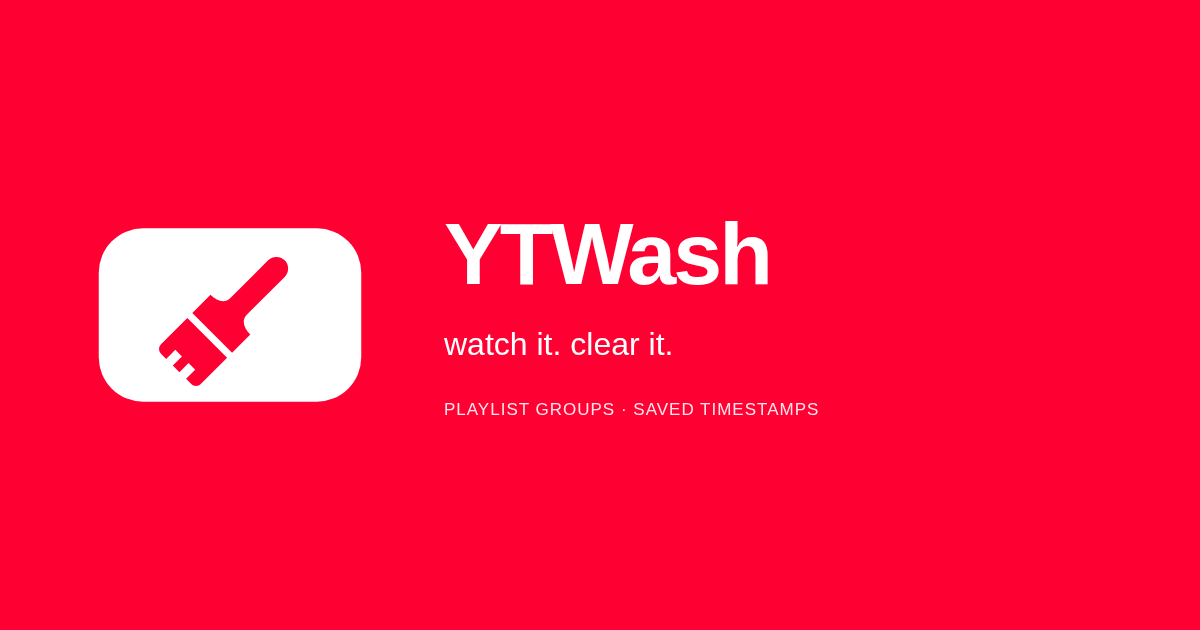
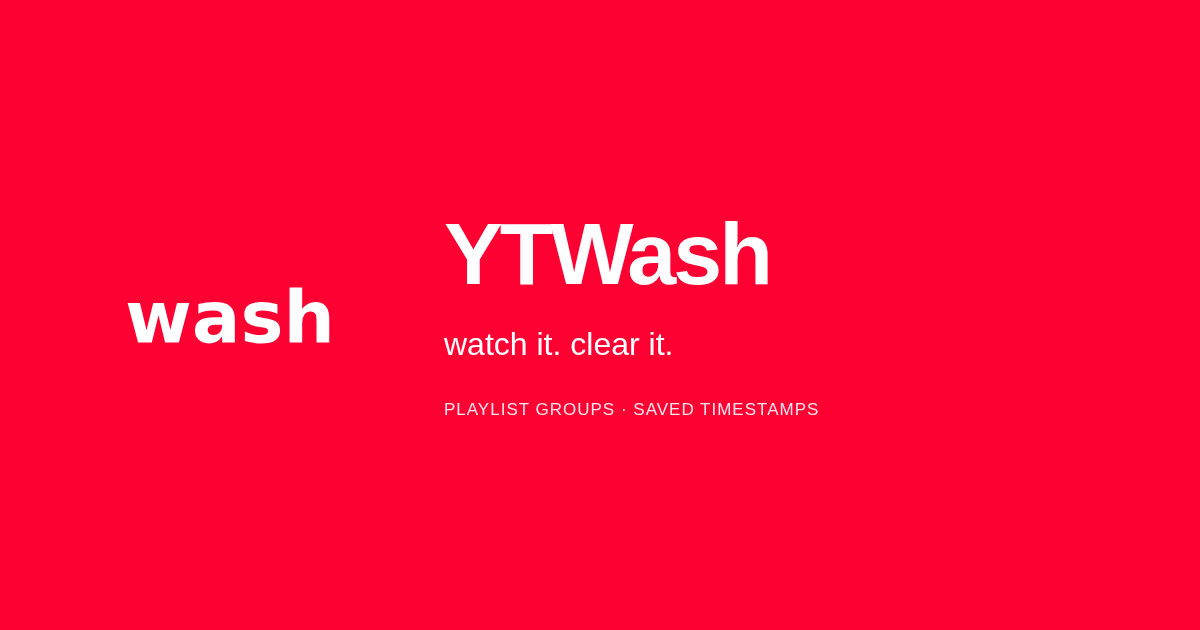
Use white wash lettering on a red video button for branding

Changed region(s): [[0.0617, 0.3619, 0.3083, 0.6635]]

diff --git a/assets/brand/social-preview.html b/assets/brand/social-preview.html
@@ -5,5 +5,5 @@
   .copy{flex:1}h1{font-size:88px;letter-spacing:-3px;margin:0 0 24px;line-height:1}
   p{font-size:32px;line-height:1.4;margin:0;max-width:720px;font-weight:500}
   .features{font-size:17px;letter-spacing:1px;margin-top:34px;color:#ffe4eb}
-  </style></head><body><div class="logo"><svg xmlns="http://www.w3.org/2000/svg" viewBox="0 0 512 512" role="img" aria-label="YTWash painter's brush"><rect x="32" y="108" width="448" height="296" rx="76" fill="#fff"/><g fill="#ff0033" transform="rotate(45 256 256)"><path d="M236 144a20 20 0 0 1 40 0v91c0 14 12 20 28 20v44h-96v-44c16 0 28-6 28-20z"/><path d="M208 311h96v63c0 7-5 12-12 12h-12v-22h-16v22h-16v-22h-16v22h-12c-7 0-12-5-12-12z"/></g></svg>
+  </style></head><body><div class="logo"><svg xmlns="http://www.w3.org/2000/svg" viewBox="0 0 512 512" role="img" aria-label="YTWash"><rect x="20" y="112" width="472" height="288" rx="72" fill="#ff0033"/><g fill="#fff" transform="translate(77 302.8028902705428) scale(0.06015795664594186 -0.06015795664594186)"><path transform="translate(0 0)" d="M72 1120H420L608 348L797 1120H1096L1284 356L1473 1120H1821L1526 0H1135L946 770L758 0H367Z"/><path transform="translate(1892 0)" d="M674 504Q562 504 505.5 466.0Q449 428 449 354Q449 286 494.5 247.5Q540 209 621 209Q722 209 791.0 281.5Q860 354 860 463V504ZM1221 639V0H860V166Q788 64 698.0 17.5Q608 -29 479 -29Q305 -29 196.5 72.5Q88 174 88 336Q88 533 223.5 625.0Q359 717 649 717H860V745Q860 830 793.0 869.5Q726 909 584 909Q469 909 370.0 886.0Q271 863 186 817V1090Q301 1118 417.0 1132.5Q533 1147 649 1147Q952 1147 1086.5 1027.5Q1221 908 1221 639Z"/><path transform="translate(3274 0)" d="M1047 1085V813Q932 861 825.0 885.0Q718 909 623 909Q521 909 471.5 883.5Q422 858 422 805Q422 762 459.5 739.0Q497 716 594 705L657 696Q932 661 1027.0 581.0Q1122 501 1122 330Q1122 151 990.0 61.0Q858 -29 596 -29Q485 -29 366.5 -11.5Q248 6 123 41V313Q230 261 342.5 235.0Q455 209 571 209Q676 209 729.0 238.0Q782 267 782 324Q782 372 745.5 395.5Q709 419 600 432L537 440Q298 470 202.0 551.0Q106 632 106 797Q106 975 228.0 1061.0Q350 1147 602 1147Q701 1147 810.0 1132.0Q919 1117 1047 1085Z"/><path transform="translate(4493 0)" d="M1298 682V0H938V111V520Q938 667 931.5 722.0Q925 777 909 803Q888 838 852.0 857.5Q816 877 770 877Q658 877 594.0 790.5Q530 704 530 551V0H172V1556H530V956Q611 1054 702.0 1100.5Q793 1147 903 1147Q1097 1147 1197.5 1028.0Q1298 909 1298 682Z"/></g></svg>
 </div><div class="copy"><h1>YTWash</h1><p>watch it. clear it.</p><div class="features">PLAYLIST GROUPS · SAVED TIMESTAMPS</div></div></body></html>

diff --git a/assets/brand/store-marquee.html b/assets/brand/store-marquee.html
@@ -5,5 +5,5 @@
   .copy{flex:1}h1{font-size:88px;letter-spacing:-3px;margin:0 0 24px;line-height:1}
   p{font-size:32px;line-height:1.4;margin:0;max-width:720px;font-weight:500}
   .features{font-size:17px;letter-spacing:1px;margin-top:34px;color:#ffe4eb}
-  </style></head><body><div class="logo"><svg xmlns="http://www.w3.org/2000/svg" viewBox="0 0 512 512" role="img" aria-label="YTWash painter's brush"><rect x="32" y="108" width="448" height="296" rx="76" fill="#fff"/><g fill="#ff0033" transform="rotate(45 256 256)"><path d="M236 144a20 20 0 0 1 40 0v91c0 14 12 20 28 20v44h-96v-44c16 0 28-6 28-20z"/><path d="M208 311h96v63c0 7-5 12-12 12h-12v-22h-16v22h-16v-22h-16v22h-12c-7 0-12-5-12-12z"/></g></svg>
+  </style></head><body><div class="logo"><svg xmlns="http://www.w3.org/2000/svg" viewBox="0 0 512 512" role="img" aria-label="YTWash"><rect x="20" y="112" width="472" height="288" rx="72" fill="#ff0033"/><g fill="#fff" transform="translate(77 302.8028902705428) scale(0.06015795664594186 -0.06015795664594186)"><path transform="translate(0 0)" d="M72 1120H420L608 348L797 1120H1096L1284 356L1473 1120H1821L1526 0H1135L946 770L758 0H367Z"/><path transform="translate(1892 0)" d="M674 504Q562 504 505.5 466.0Q449 428 449 354Q449 286 494.5 247.5Q540 209 621 209Q722 209 791.0 281.5Q860 354 860 463V504ZM1221 639V0H860V166Q788 64 698.0 17.5Q608 -29 479 -29Q305 -29 196.5 72.5Q88 174 88 336Q88 533 223.5 625.0Q359 717 649 717H860V745Q860 830 793.0 869.5Q726 909 584 909Q469 909 370.0 886.0Q271 863 186 817V1090Q301 1118 417.0 1132.5Q533 1147 649 1147Q952 1147 1086.5 1027.5Q1221 908 1221 639Z"/><path transform="translate(3274 0)" d="M1047 1085V813Q932 861 825.0 885.0Q718 909 623 909Q521 909 471.5 883.5Q422 858 422 805Q422 762 459.5 739.0Q497 716 594 705L657 696Q932 661 1027.0 581.0Q1122 501 1122 330Q1122 151 990.0 61.0Q858 -29 596 -29Q485 -29 366.5 -11.5Q248 6 123 41V313Q230 261 342.5 235.0Q455 209 571 209Q676 209 729.0 238.0Q782 267 782 324Q782 372 745.5 395.5Q709 419 600 432L537 440Q298 470 202.0 551.0Q106 632 106 797Q106 975 228.0 1061.0Q350 1147 602 1147Q701 1147 810.0 1132.0Q919 1117 1047 1085Z"/><path transform="translate(4493 0)" d="M1298 682V0H938V111V520Q938 667 931.5 722.0Q925 777 909 803Q888 838 852.0 857.5Q816 877 770 877Q658 877 594.0 790.5Q530 704 530 551V0H172V1556H530V956Q611 1054 702.0 1100.5Q793 1147 903 1147Q1097 1147 1197.5 1028.0Q1298 909 1298 682Z"/></g></svg>
 </div><div class="copy"><h1>YTWash</h1><p>watch it. clear it.</p><div class="features">PLAYLIST GROUPS · SAVED TIMESTAMPS</div></div></body></html>

diff --git a/assets/brand/store-tile.html b/assets/brand/store-tile.html
@@ -5,5 +5,5 @@
   .copy{flex:1}h1{font-size:38px;letter-spacing:-3px;margin:0 0 12px;line-height:1}
   p{font-size:17px;line-height:1.4;margin:0;max-width:720px;font-weight:500}
   .features{font-size:11px;letter-spacing:0px;margin-top:18px;color:#ffe4eb}
-  </style></head><body><div class="logo"><svg xmlns="http://www.w3.org/2000/svg" viewBox="0 0 512 512" role="img" aria-label="YTWash painter's brush"><rect x="32" y="108" width="448" height="296" rx="76" fill="#fff"/><g fill="#ff0033" transform="rotate(45 256 256)"><path d="M236 144a20 20 0 0 1 40 0v91c0 14 12 20 28 20v44h-96v-44c16 0 28-6 28-20z"/><path d="M208 311h96v63c0 7-5 12-12 12h-12v-22h-16v22h-16v-22h-16v22h-12c-7 0-12-5-12-12z"/></g></svg>
+  </style></head><body><div class="logo"><svg xmlns="http://www.w3.org/2000/svg" viewBox="0 0 512 512" role="img" aria-label="YTWash"><rect x="20" y="112" width="472" height="288" rx="72" fill="#ff0033"/><g fill="#fff" transform="translate(77 302.8028902705428) scale(0.06015795664594186 -0.06015795664594186)"><path transform="translate(0 0)" d="M72 1120H420L608 348L797 1120H1096L1284 356L1473 1120H1821L1526 0H1135L946 770L758 0H367Z"/><path transform="translate(1892 0)" d="M674 504Q562 504 505.5 466.0Q449 428 449 354Q449 286 494.5 247.5Q540 209 621 209Q722 209 791.0 281.5Q860 354 860 463V504ZM1221 639V0H860V166Q788 64 698.0 17.5Q608 -29 479 -29Q305 -29 196.5 72.5Q88 174 88 336Q88 533 223.5 625.0Q359 717 649 717H860V745Q860 830 793.0 869.5Q726 909 584 909Q469 909 370.0 886.0Q271 863 186 817V1090Q301 1118 417.0 1132.5Q533 1147 649 1147Q952 1147 1086.5 1027.5Q1221 908 1221 639Z"/><path transform="translate(3274 0)" d="M1047 1085V813Q932 861 825.0 885.0Q718 909 623 909Q521 909 471.5 883.5Q422 858 422 805Q422 762 459.5 739.0Q497 716 594 705L657 696Q932 661 1027.0 581.0Q1122 501 1122 330Q1122 151 990.0 61.0Q858 -29 596 -29Q485 -29 366.5 -11.5Q248 6 123 41V313Q230 261 342.5 235.0Q455 209 571 209Q676 209 729.0 238.0Q782 267 782 324Q782 372 745.5 395.5Q709 419 600 432L537 440Q298 470 202.0 551.0Q106 632 106 797Q106 975 228.0 1061.0Q350 1147 602 1147Q701 1147 810.0 1132.0Q919 1117 1047 1085Z"/><path transform="translate(4493 0)" d="M1298 682V0H938V111V520Q938 667 931.5 722.0Q925 777 909 803Q888 838 852.0 857.5Q816 877 770 877Q658 877 594.0 790.5Q530 704 530 551V0H172V1556H530V956Q611 1054 702.0 1100.5Q793 1147 903 1147Q1097 1147 1197.5 1028.0Q1298 909 1298 682Z"/></g></svg>
 </div><div class="copy"><h1>YTWash</h1><p>watch it. clear it.</p><div class="features">PLAYLIST GROUPS · SAVED TIMESTAMPS</div></div></body></html>

diff --git a/assets/brand/README.md b/assets/brand/README.md
@@ -1,23 +1,9 @@
 # YTWash publishing assets
 
-White rounded video button with a bold red painter’s brush silhouette. The original SVG uses paths, so it needs no external fonts. Transparent PNG icons are in `public/icons/` at 16, 32, 48, 64, 128, 256, and 512 pixels. Both browser bundles use the appropriate icons automatically.
+Logo: white lowercase **wash** centered inside a smooth red rounded video button. Slogan: **watch it. clear it.**
 
-- `logo.svg`: scalable master, transparent exterior.
-- `store-tile.png`: 440 × 280 small promotional tile.
-- `store-marquee.png`: 1400 × 560 promotional banner.
-- `social-preview.png`: 1200 × 630 release/social graphic.
-- Corresponding HTML files: editable promotional graphic sources.
+`logo.svg` is the vector master with outlined lettering and transparent exterior. `favicon.svg` uses the same design. Transparent extension icons are exported at 16, 32, 48, 64, 128, 256, and 512 pixels in `public/icons/`. Site favicons include SVG, PNG, ICO, and a 180px Apple touch icon.
 
-Slogan: **watch it. clear it.**
+Promotional graphics: 440×280 store tile, 1400×560 store marquee, and 1200×630 social preview. Editable HTML sources are included. Recreate exports using `node scripts/export-brand.mjs` with Playwright Chromium installed.
 
-Palette: red `#ff0033`, white `#ffffff`. The white button is intended for colored or dark backgrounds. Promotional copy describes creator groups and saved timestamps without claiming YouTube affiliation.
-
-Recreate PNG exports with `PLAYWRIGHT_BROWSERS_PATH=/path/to/browsers node scripts/export-brand.mjs` after installing the Playwright Chromium browser. Review store-specific listing requirements before upload; promotional graphics do not replace screenshots of the actual extension.
-
-The painter’s brush uses simple original SVG paths with broad bristle cuts for clarity at small sizes.
-
-`brush-wordmark.svg`: red lowercase ytwash on an original black dry-brush paint stroke, transparent exterior; lettering outlined for portable SVG rendering. DejaVu font license retained in FONT-LICENSE.txt.
-
-Favicon: `favicon.svg` uses a white painter’s brush on a red square tile, optimized for 16/32px. Exported SVG, PNG, ICO, and Apple touch assets are in `site/`; 16/32px extension icons use the same compact design.
-
-`brush-wordmark-white.svg` and `brush-wordmark-white.png`: white-on-black alternative. The red-on-black wordmark remains available; original generated red design is `brush-wordmark-original.png`.
+Palette: red `#ff0033`, white `#ffffff`. Letter outlines use DejaVu Sans Bold; see FONT-LICENSE.txt. Brush-stroke files are retained as previous concepts.
